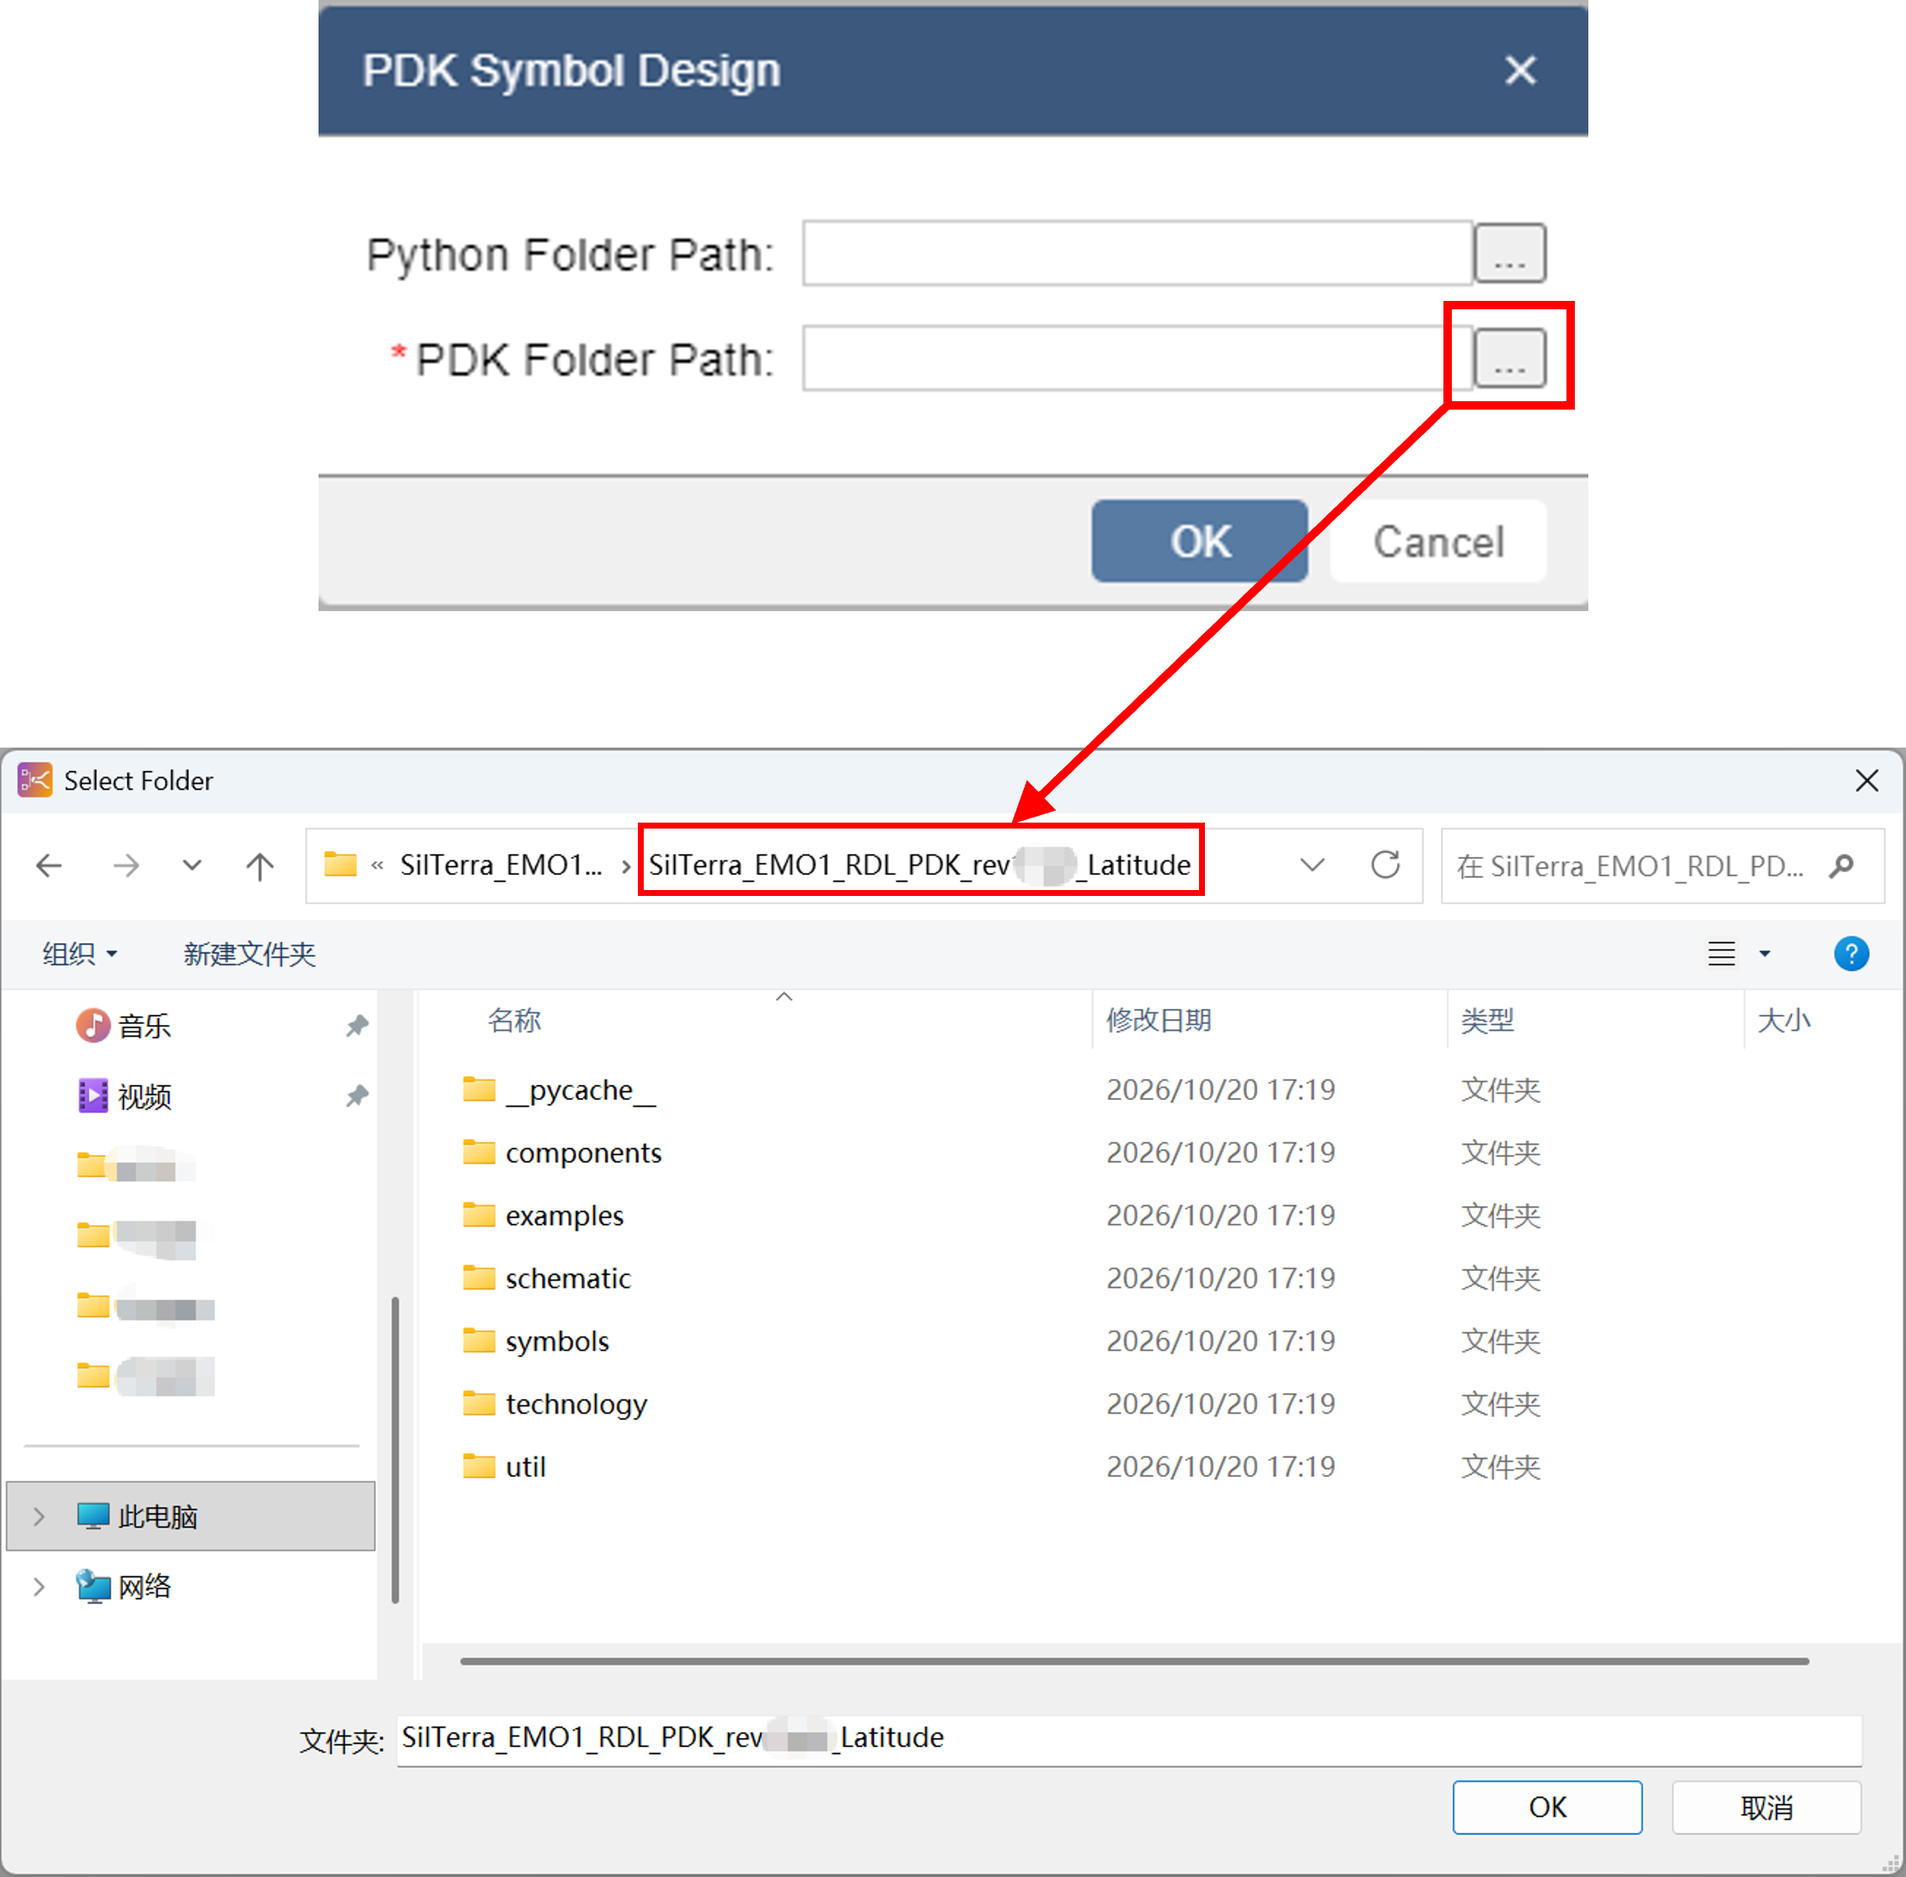
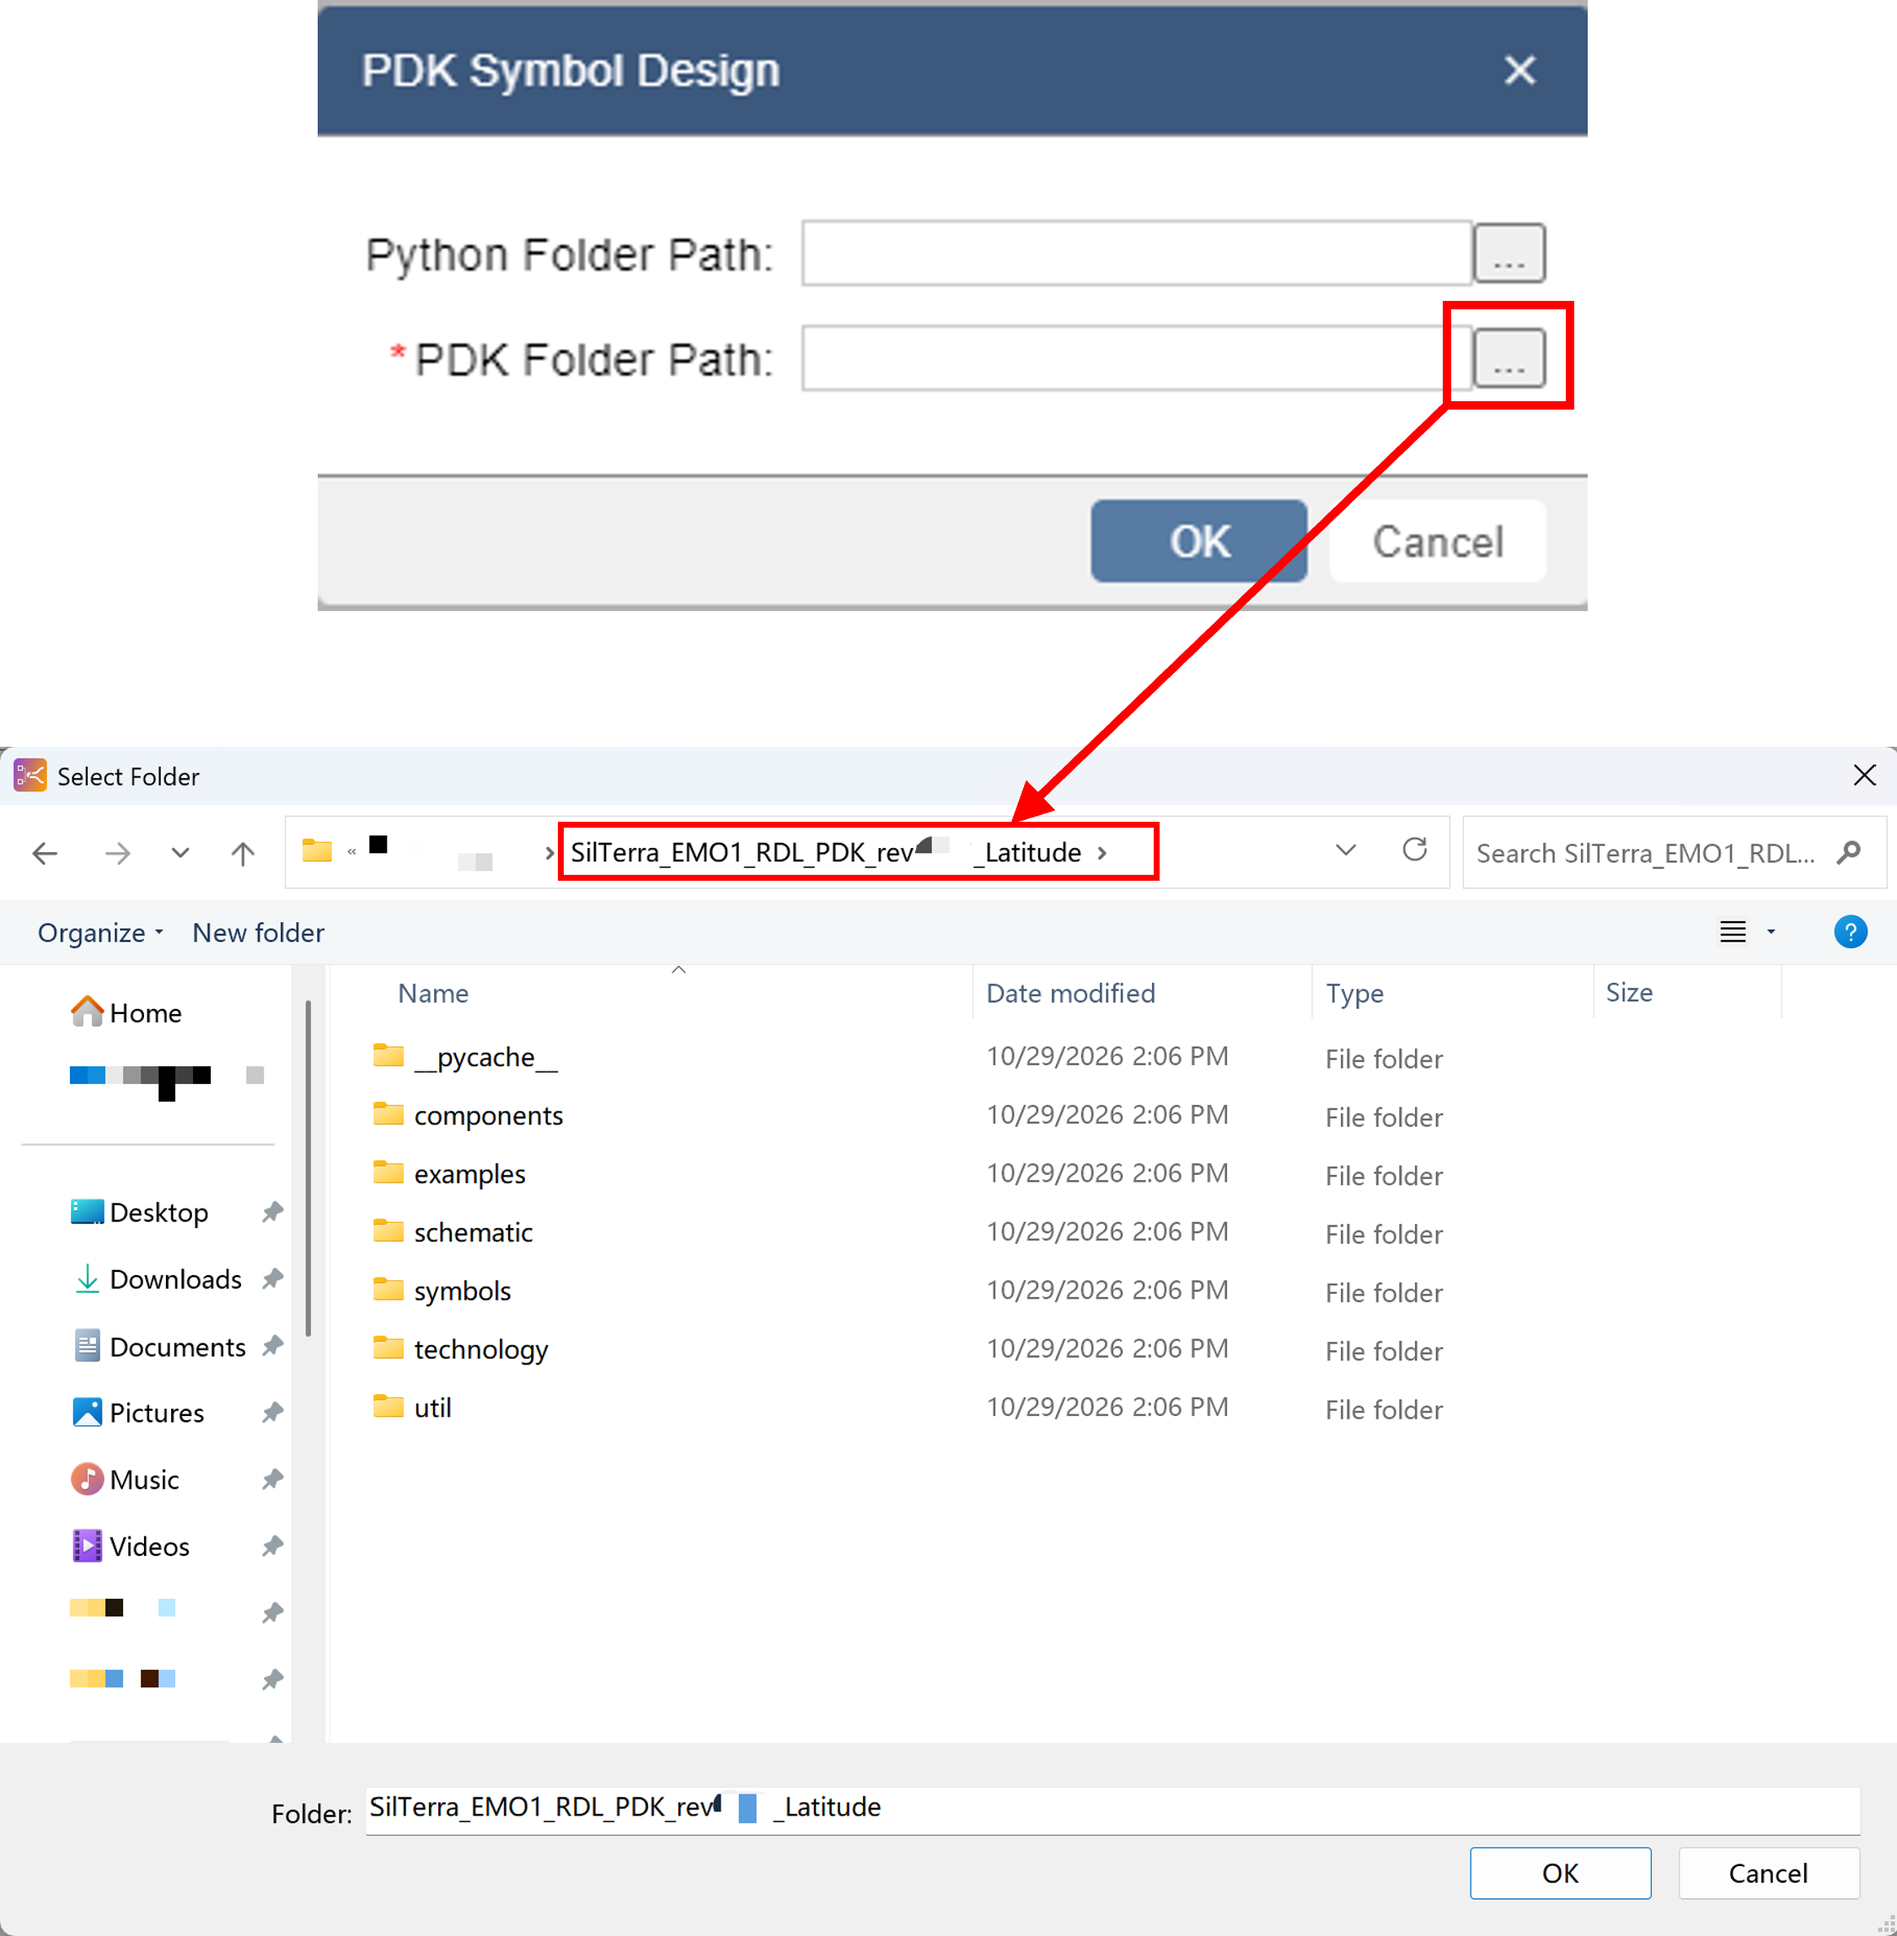
Update_261030

diff --git a/docs/source/tech/layers.rst b/docs/source/tech/layers.rst
@@ -1,7 +1,7 @@
 layers.py
 ==============
 
-The layers are auto-generated by filling the ``layers.csv`` file, ``PINREC_NOTE`` / ``PINREC_TEXT`` / ``DEVREC_NOTE`` / ``FLYLINE_MARK`` / ``ERROR_MARK`` layers are defined by **Latitude** for display.
+The layers are auto-generated by filling the ``layers.csv`` file, ``FLYLINE_MARK`` / ``OP_Port`` / ``Met1_Pin`` / ``Met2_Pin`` / ``Met3_Pin`` layers are defined by **Latitude** for display.
 
 ::
 
@@ -65,10 +65,10 @@ The layers are auto-generated by filling the ``layers.csv`` file, ``PINREC_NOTE`
         BE_DM_Excl = Layer(PROCESS.DME, PURPOSE.BE, 'Back-end layers dummy fill exclusion region')
         Exclusion = Layer(PROCESS.ECL, PURPOSE.DRW, 'DRC check exclusion recognition layer')
         Cell_Boundaries = Layer(PROCESS.CB, PURPOSE.DRW, 'Frame cell boundaries/outline layer')
-        PINREC_NOTE = Layer(PROCESS.PINREC, PURPOSE.NOTE, 'Pin rectangle')
-        PINREC_TEXT = Layer(PROCESS.PINREC, PURPOSE.TEXT, 'Pin text')
-        DEVREC_NOTE = Layer(PROCESS.DEVREC, PURPOSE.NOTE, 'Device rectangle')
-        FLYLINE_MARK = Layer(PROCESS.FLYLINE, PURPOSE.MARK, 'Flyline for insufficient space in AutoLink')
-        ERROR_MARK = Layer(PROCESS.ERROR, PURPOSE.MARK, 'Error mark')
+        FLYLINE_MARK = Layer(PROCESS.FLYLINE, PURPOSE.MARK1, 'Flyline for insufficient space in AutoLink')
+        OP_Port = Layer(PROCESS.OP_Port, PURPOSE.MARK_OP1, 'Optical port marker')
+        Met1_Pin = Layer(PROCESS.EP_Pin, PURPOSE.MARK_ELE1, 'Metal1 electrical pin marker')
+        Met2_Pin = Layer(PROCESS.EP_Pin, PURPOSE.MARK_ELE2, 'Metal2 electrical pin marker')
+        Met3_Pin = Layer(PROCESS.EP_Pin, PURPOSE.MARK_ELE3, 'Metal3 electrical pin marker')
 
 For users using layout viewers (e.g. KLayout), they can import the layer properties file ``SilTerra_EMO1_RDL_PDK_rev13p0_Latitude.lyp`` in the file folder.

diff --git a/docs/source/component_list/taper.rst b/docs/source/component_list/taper.rst
@@ -12,7 +12,7 @@ TaperLinear
 +----------------+-----------------+------------------------------------------------------------------------------------+
 |left_type       |  --             | Type of waveguide of start                                                         |
 +----------------+-----------------+------------------------------------------------------------------------------------+
-|left_type       |  --             | Type of waveguide of end                                                           |
+|right_type      |  --             | Type of waveguide of end                                                           |
 +----------------+-----------------+------------------------------------------------------------------------------------+
 
 +-------------------+-----------------------------+-------------+
@@ -35,7 +35,7 @@ TaperParabolic
 +----------------+-----------------+------------------------------------------------------------------------------------+
 |left_type       |  --             | Type of waveguide of start                                                         |
 +----------------+-----------------+------------------------------------------------------------------------------------+
-|left_type       |  --             | Type of waveguide of end                                                           |
+|right_type      |  --             | Type of waveguide of end                                                           |
 +----------------+-----------------+------------------------------------------------------------------------------------+
 |step            |  > 0            | More steps means more accurate to the parabolic curve                              |
 +----------------+-----------------+------------------------------------------------------------------------------------+

diff --git a/docs/source/component_list/fixed_heater.rst b/docs/source/component_list/fixed_heater.rst
@@ -20,7 +20,7 @@ Fixed_TiN_Heater_O
 +-------------------+-----------------------------+------------------------+-------------+
 |     pins          | metal line type             | position               | orientation |
 +===================+=============================+========================+=============+
-| ep_0              | TECH.METAL.M1.W10           | (-248.1, 0)            | 90          |
+| ep_0              | TECH.METAL.UTM.W10          | (-248.1, 0)            | 90          |
 +-------------------+-----------------------------+------------------------+-------------+
-| ep_1              | TECH.METAL.M1.W10           | (258.1, 0)             | 90          |
+| ep_1              | TECH.METAL.UTM.W10          | (258.1, 0)             | 90          |
 +-------------------+-----------------------------+------------------------+-------------+

diff --git a/docs/source/quick_start/PhotoCAD.rst b/docs/source/quick_start/PhotoCAD.rst
@@ -54,7 +54,7 @@ Import SilTerra PDK into PhotoCAD
 
 First, make sure that the SilTerra PDK version matches the version of **PhotoCAD**. The version of **PhotoCAD** can be obtained in ``Run`` by running scripts in **PhotoCAD**.
 
-Extract the ``SilTerra_EMO1_RDL_PDK_rev13p0_Latitude`` zip archive and copy it to the workspace folder. As shown in the figure below, the ``SilTerra_EMO1_RDL_PDK_rev13p0_Latitude`` folder is in the demo folder and parallel to .vene_demo.
+Extract the ``SilTerra_EMO1_RDL_PDK_rev13p0_Latitude`` zip archive and copy it to the workspace folder. As shown in the figure below, the ``SilTerra_EMO1_RDL_PDK_rev13p0_Latitude`` folder is in the demo folder and parallel to .venv_demo.
 
 .. image:: ../images/PhotoCAD_6.png
    :width: 60%

diff --git a/docs/source/tech/metal_init.rst b/docs/source/tech/metal_init.rst
@@ -1,4 +1,4 @@
 __init__.py
 ===================
 
-Define the METAL class, which consists of the ``M1``, ``M2`` and ``M3`` metal classes. Metal line widths are defined through class constants such as ``W10``, ``W20`` and ``W40``.
+Define the METAL class, which consists of the ``UTM``, ``UTM2`` and ``RDL_Met`` metal classes. Metal line widths are defined through class constants such as ``W10``, ``W20`` and ``W40``.

diff --git a/docs/source/tech/metal_M3.rst b/docs/source/tech/metal_M3.rst
@@ -1,4 +1,4 @@
-m3.py
+RDL_Met.py
 ===================
 
-Define the ``M3`` metal layer used in the SilTerra PDK.
+Define the ``RDL_Met`` metal layer used in the SilTerra PDK.

diff --git a/docs/source/tech/metal_M2.rst b/docs/source/tech/metal_M2.rst
@@ -1,4 +1,4 @@
-m2.py
+UTM2.py
 ===================
 
-Define the ``M2`` metal layer used in the SilTerra PDK.
+Define the ``UTM2`` metal layer used in the SilTerra PDK.

diff --git a/docs/source/tech/metal_M1.rst b/docs/source/tech/metal_M1.rst
@@ -1,4 +1,4 @@
-m1.py
+UTM.py
 ===================
 
-Define the ``M1`` metal layer used in the SilTerra PDK.
+Define the ``UTM`` metal layer used in the SilTerra PDK.
